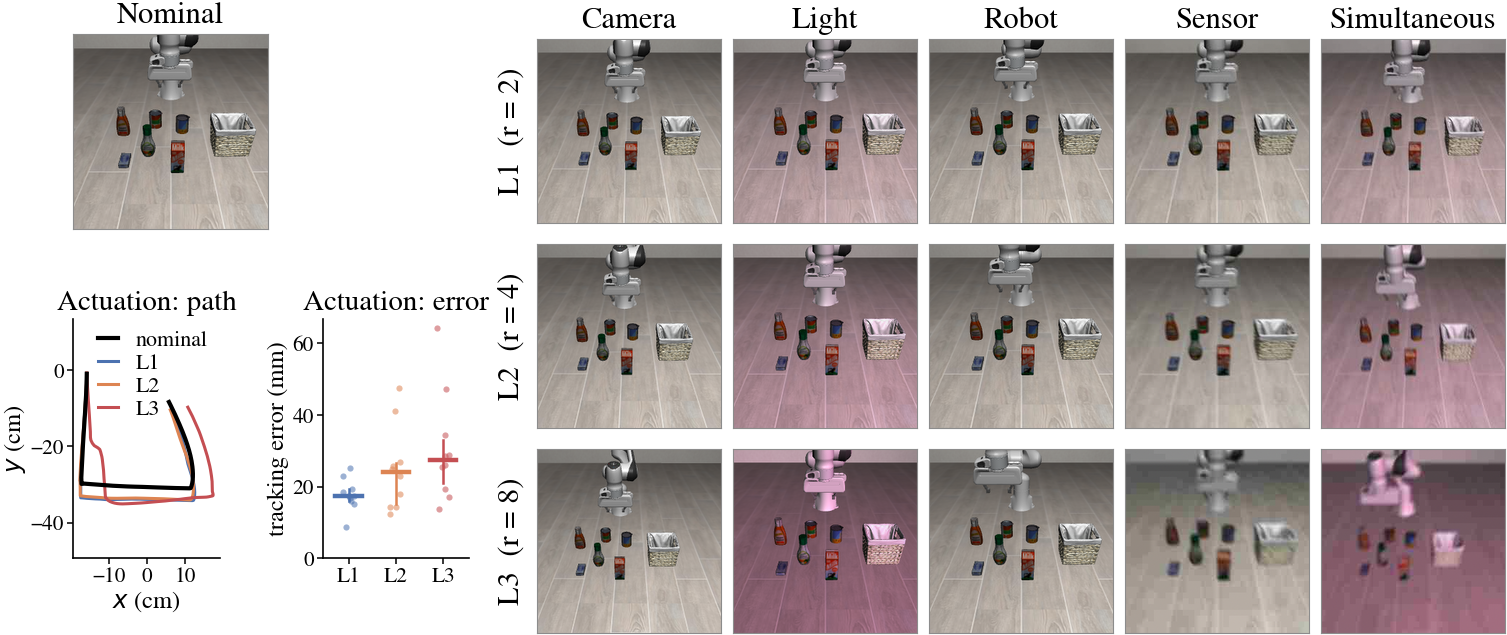
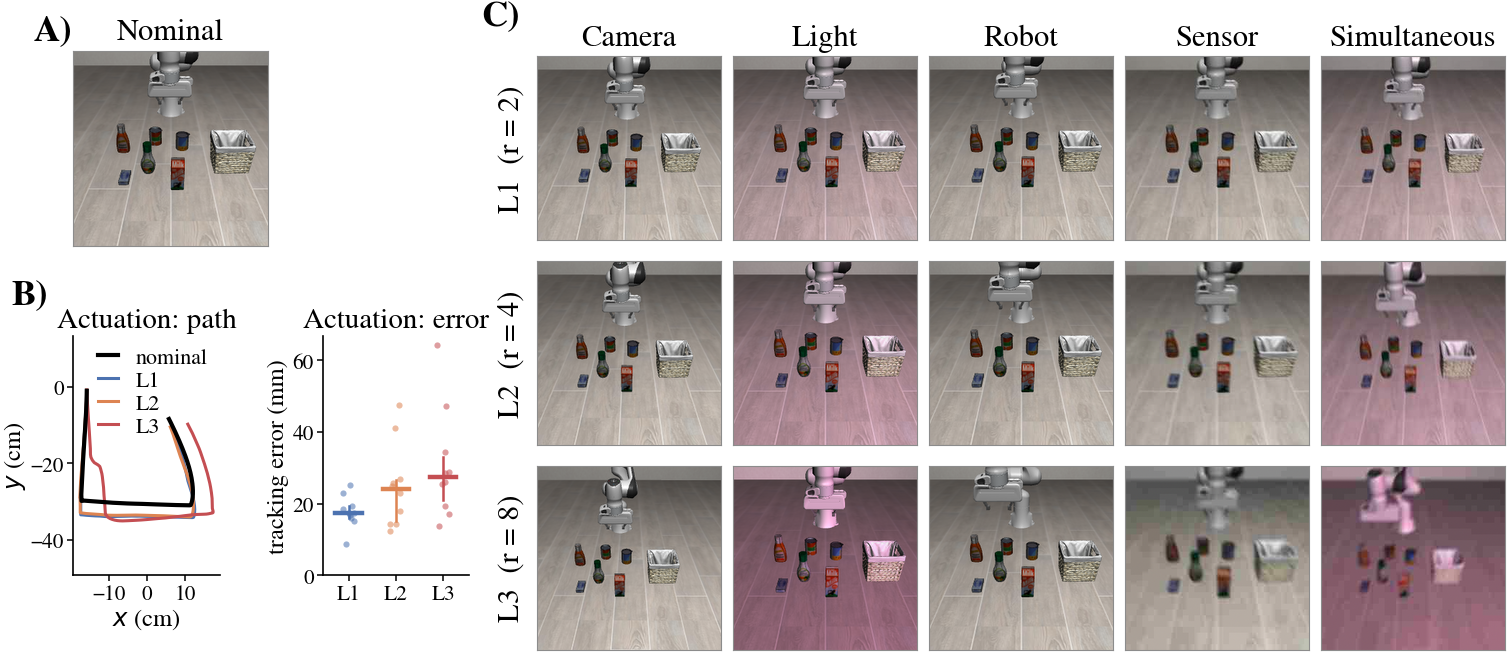
README: show the paper's perturbation figure, and say why the axes matter
The README carried the image-only grid, which left out the axis a reader
most needs to see measured. It now carries the figure the paper uses:
(A) the nominal frame, (B) actuation as the end-effector path and the
tracking error it opens up, (C) the five image-changing axes at every
level. fig_perturbation_grid.py draws the panel letters in the reference
layout, so the figure regenerates as shown.

Underneath, the seven axes each get a sentence of why they exist -- a
camera unbolted and remounted, the same room at a different hour, an arm
a human reset by hand, frames JPEG-compressed over a network, a
controller that does not deliver the motion it was asked for, an
operator who does not speak in the template, and a new lab that changes
all of it at once. None of them is an attack; each is what a policy meets
the first time it runs somewhere other than where it was trained.

Claude-Session: https://claude.ai/code/session_01WSxtiyQsboSAudUZ7nTHKg

diff --git a/analysis/fig_perturbation_grid.py b/analysis/fig_perturbation_grid.py
@@ -103,17 +103,29 @@ def draw_reference(plt, grid, *, width, act=None):
     nom = fig.add_subplot(gs[0, 0])
     _panel(nom, grid[("clean", VISUAL[0])], title=COL_LABEL["clean"])
     nom.set_anchor("SW")        # sit above the actuation block rather than centred in the cell
+    _letter(nom, "A)", -0.20, 1.02)
+    first = None
     for i, L in enumerate(LEVELS):
         for j, axis in enumerate(VISUAL):
-            _panel(fig.add_subplot(gs[i, j + 2]), grid[(L, axis)],
-                   title=ROW_LABEL[axis] if i == 0 else None,
-                   ylabel=COL_LABEL[L] if j == 0 else None)
+            h = _panel(fig.add_subplot(gs[i, j + 2]), grid[(L, axis)],
+                       title=ROW_LABEL[axis] if i == 0 else None,
+                       ylabel=COL_LABEL[L] if j == 0 else None)
+            if first is None: first = h
     if act is not None:
-        _actuation_block(fig, gs[1:, 0], act)
+        b = _actuation_block(fig, gs[1:, 0], act)
+        _letter(b, "B)", -0.42, 1.10)
+    _letter(first, "C)" if act is not None else "B)", -0.30, 1.13)
     return fig
 
 
 COLOUR_L = {"L1": "#4C72B0", "L2": "#DD8452", "L3": "#C44E52"}
+
+
+def _letter(ax, text, x, y):
+    """A panel letter, in the axes' own coordinates so it follows the panel it belongs to."""
+    import matplotlib as mpl
+    ax.text(x, y, text, transform=ax.transAxes, ha="left", va="bottom", clip_on=False,
+            fontsize=mpl.rcParams["font.size"] * 1.2, fontweight="bold")
 
 
 def _actuation_block(fig, cell, act, config=0):
@@ -158,6 +170,7 @@ def _actuation_block(fig, cell, act, config=0):
     a2.set_ylabel("tracking error (mm)", fontsize=fs * 0.8, labelpad=1)
     a2.set_title("Actuation: error", fontsize=fs * 0.95, pad=3)
     a2.set_ylim(bottom=0)
+    return a1
 
 
 def _panel(h, img, *, title=None, ylabel=None):
@@ -169,6 +182,7 @@ def _panel(h, img, *, title=None, ylabel=None):
         sp.set_linewidth(0.4); sp.set_color("0.55")
     if title:  h.set_title(title, fontsize=fs, pad=4)
     if ylabel: h.set_ylabel(ylabel, fontsize=fs, labelpad=4)
+    return h
 
 
 def main():

diff --git a/README.md b/README.md
@@ -14,11 +14,49 @@ Every rollout is **paired**: the same task, the same initial state, the same pol
 without the perturbation. That is what makes the three-term decomposition of
 Section 4 of the paper possible.
 
-![Each axis at each severity level](docs/figs/perturbation_grid.png)
+![Each axis at each severity level](docs/figs/perturbation_grid_paper.png)
 
-One task, one initial state, one configuration index. `actuation` and `language` do not change
-the image and so are not in the figure; `docs/PERTURBATIONS.md` gives every parameter value
-behind this grid, including those two.
+One task, one initial state, one configuration index: `libero_object` task 2, initial state 23,
+configuration 0 — *pick up the salad dressing and place it in the basket*. **(A)** the nominal
+observation. **(B)** actuation, the one axis that changes no pixel, measured in the simulator: the
+end-effector path one fixed command sequence produces at each level, and the tracking error that
+opens up. **(C)** the five axes that do change the image, at each severity level. Language is text
+and is listed below; `docs/PERTURBATIONS.md` gives every parameter value behind this figure.
+
+### Why these seven
+
+None of them is an attack. Each is a difference a policy meets the first time it runs somewhere
+other than where it was trained — and each is a documented reason a sim-trained policy stops
+working on real hardware. The numbers are the L3 values of the configuration in the figure.
+
+- **Camera** — *the calibration you had yesterday is not the one you have today.* A camera
+  unbolted and remounted, a tripod nudged by a cable, a new mounting plate: the scene is the
+  same, the viewpoint is not. L3 moves the agentview 3.2° in elevation, 29 cm in distance and
+  shifts its look-at point 6 cm across the table.
+- **Lighting** — *the same room at a different hour.* Blinds open, the overhead fluorescents on
+  instead of off, a different LED panel with a different colour temperature. L3 drops the ambient
+  term to 59% of nominal, pulls the green channel down by a third — a magenta cast — and raises
+  the key light by 43°.
+- **Robot initial pose** — *nobody resets to the same pose twice.* A human re-positions the arm by
+  hand, or the controller restarts with a different home. L3 starts the end-effector 20 cm away
+  from where it started in training, rotated by up to 6°.
+- **Sensor** — *the camera on the robot is not the camera in the renderer.* Frames arrive JPEG-
+  compressed over a network, the shutter smears while the arm moves, the gain climbs in a dim
+  room. L3 takes JPEG quality down to about 17, adds half a pixel of blur and three and a half
+  pixels of motion smear at 128×128.
+- **Actuation** — *commanded is not achieved.* Payload, friction, joint backlash, a controller
+  tuned for a different arm: the policy asks for a motion and the hardware delivers a rotated,
+  lagged, slightly wrong one. The axis is calibrated to the end-effector tracking error of real
+  hardware — 10, 20 and 40 mm at L1, L2 and L3 — and at L3 that is 5.4° of misalignment and 1.5
+  control steps of lag.
+- **Language** — *the operator does not speak in the template.* The instruction a policy was
+  trained on is one phrasing of many: *place it in* becomes *put it into*, then *find the salad
+  dressing, pick it up, and then place it into the basket*. No content word changes.
+- **All six at once** — *deployment does not change one thing at a time.* Moving to a new lab
+  changes the camera mount, the lights, the reset pose, the camera model, the controller and the
+  person giving the instruction, simultaneously. Six axes each at radius `r` sit at `√6·r` in the
+  joint space, so the simultaneous condition at L1 is already a longer displacement than any
+  single axis at L3.
 
 ## Results
 
